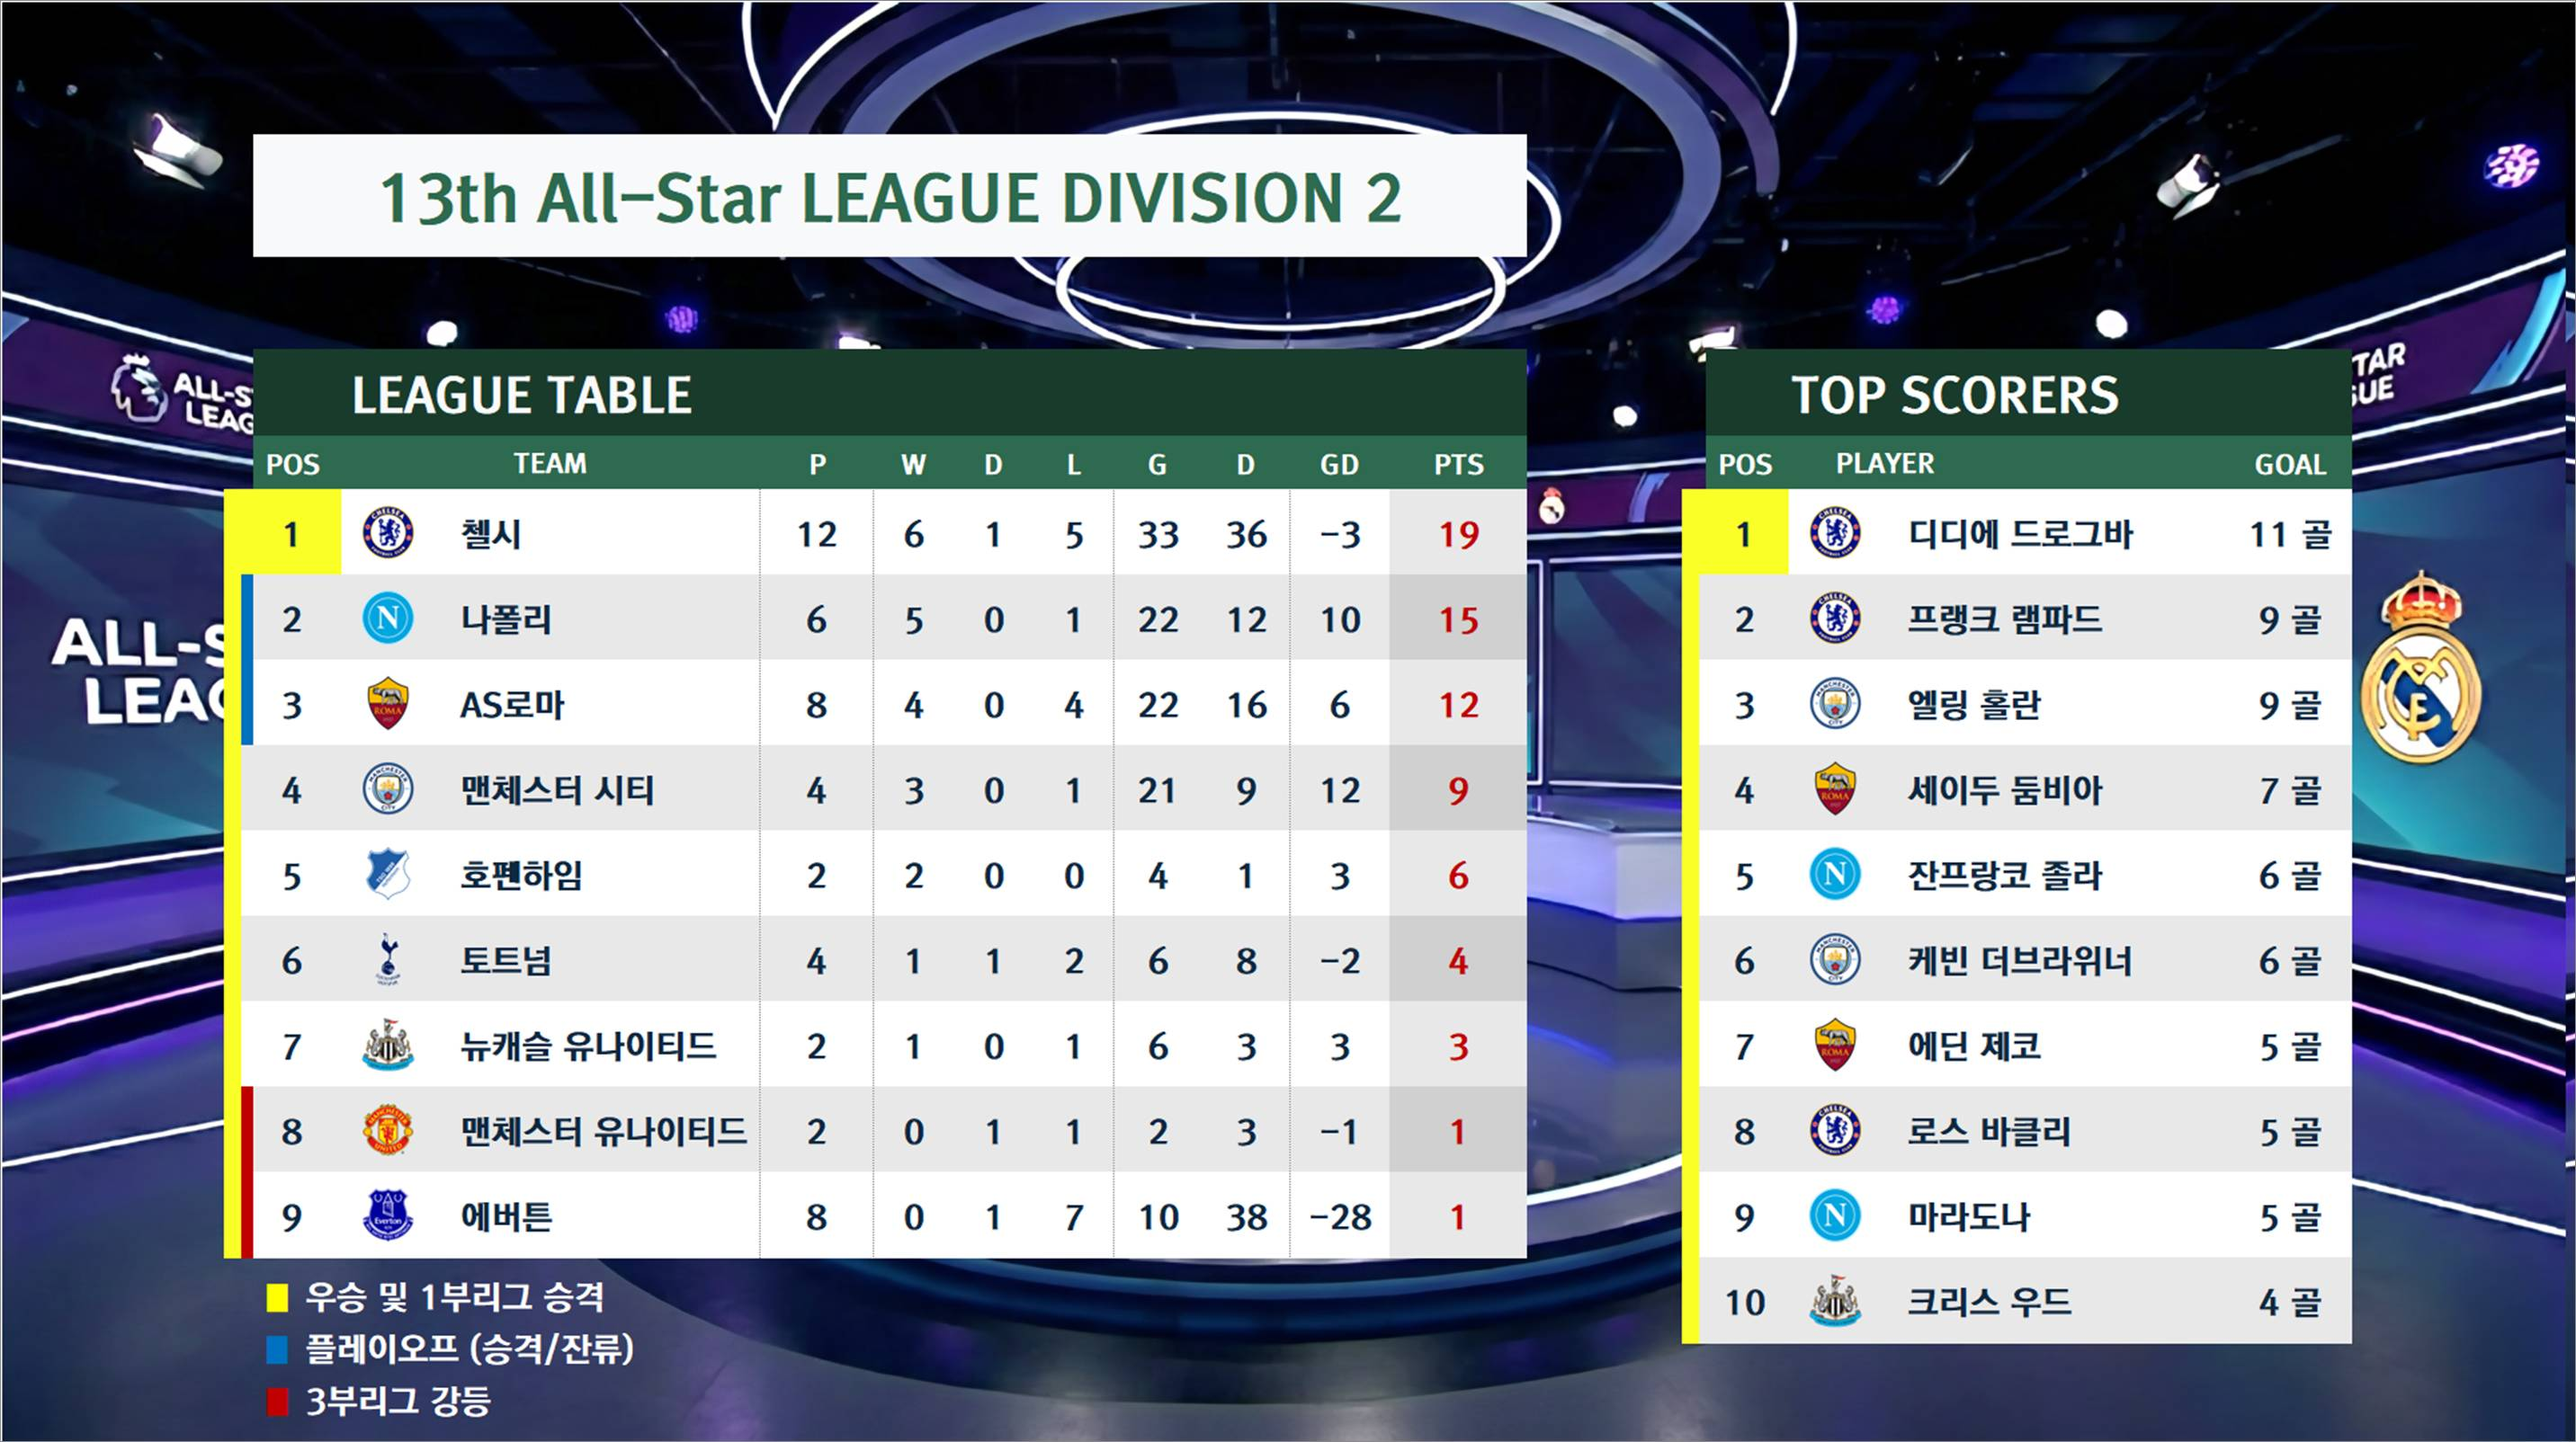
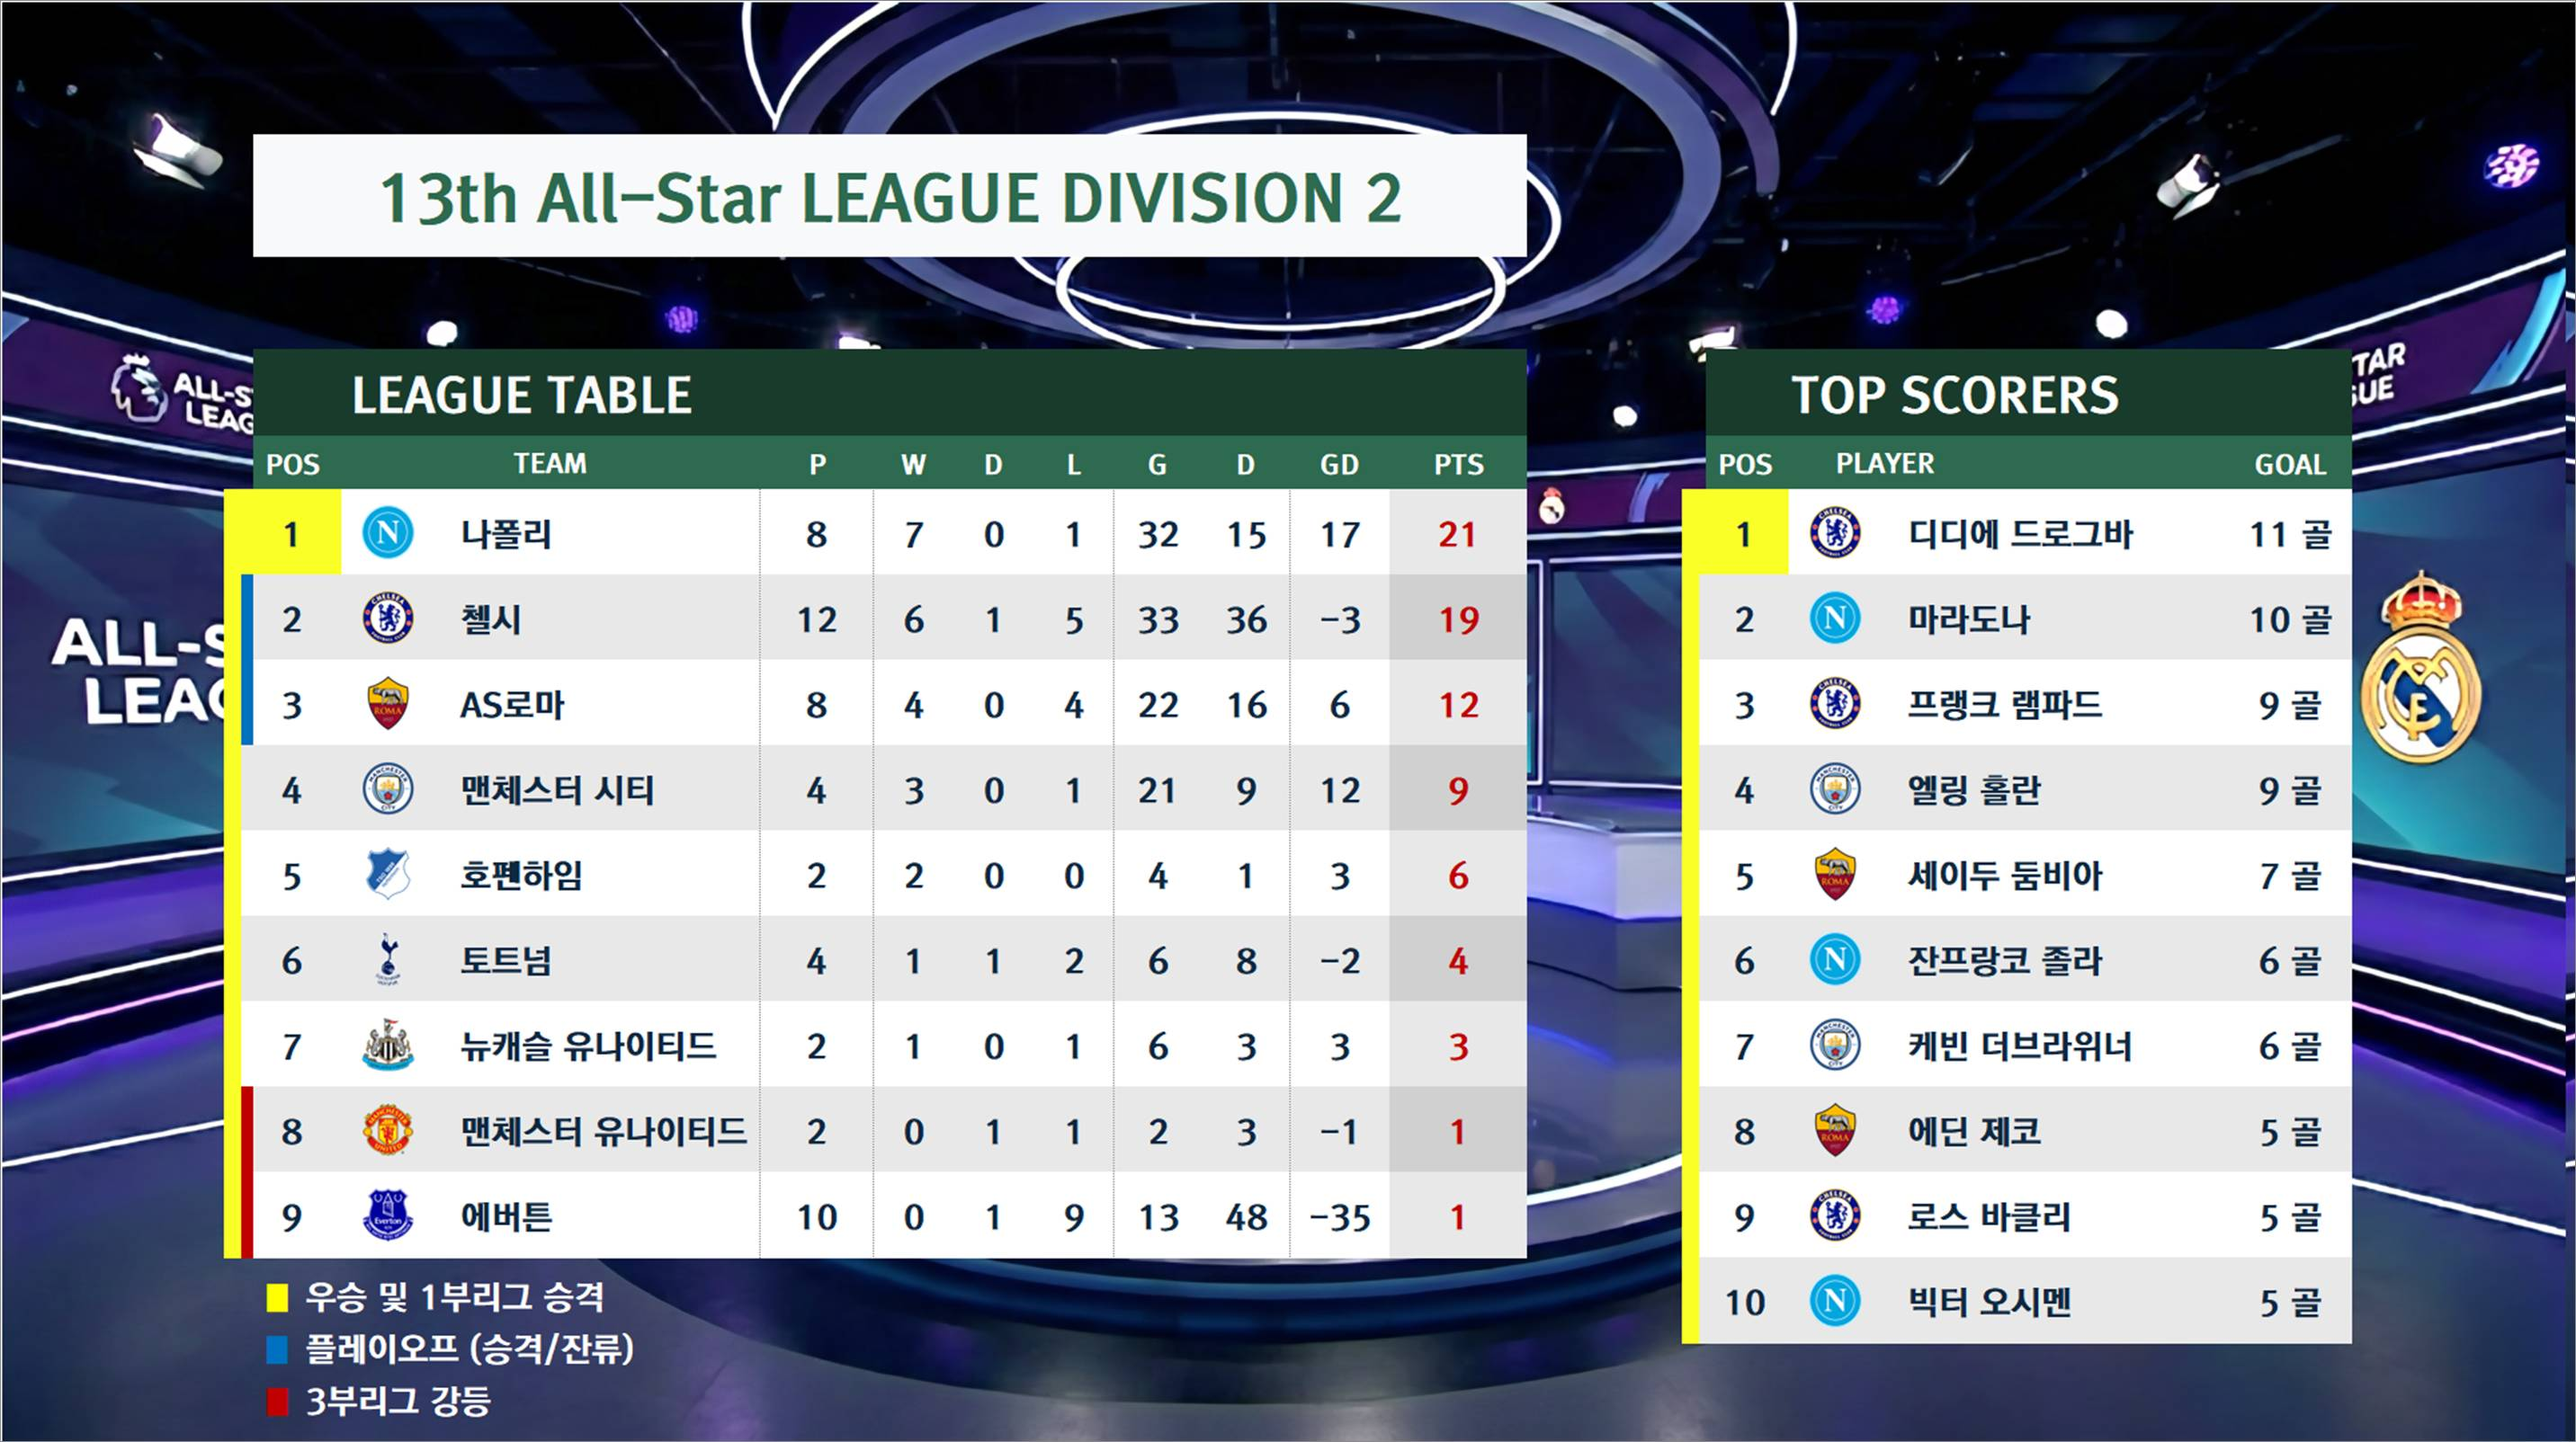
Optimize: 20:23:08

diff --git a/index.html b/index.html
@@ -68,10 +68,10 @@
     
     <div class="container">
         <div class="card"><h2>🥇 1부 리그 순위표</h2><img src="https://i.ibb.co/Lz9Jyx7J/677e42009441.jpg" alt="1부 리그"></div>
-        <div class="card"><h2>🥈 2부 리그 순위표</h2><img src="https://i.ibb.co/zWHzRJgp/28ddc6a1162c.jpg" alt="2부 리그"></div>
-        <div class="card"><h2>🏅 FA컵 토너먼트 대진표</h2><img src="https://i.ibb.co/vnsKZMN/f91d05ce4df0.jpg" alt="FA컵"></div>
+        <div class="card"><h2>🥈 2부 리그 순위표</h2><img src="https://i.ibb.co/N2CFdnmR/93816511ce27.jpg" alt="2부 리그"></div>
+        <div class="card"><h2>🏅 FA컵 토너먼트 대진표</h2><img src="https://i.ibb.co/B5V6YPrs/a4e0ca037547.jpg" alt="FA컵"></div>
         <div class="card"><h2>🌟 UCL 그룹스테이지</h2><img src="https://i.ibb.co/VcvyGNP0/f59808f6e166.jpg" alt="UCL 조별"></div>
-        <div class="card"><h2>👑 GOLDEN BOOT (통합 득점왕)</h2><img src="https://i.ibb.co/DP5khWky/b9a3ff55361b.jpg" alt="득점왕"></div>
+        <div class="card"><h2>👑 GOLDEN BOOT (통합 득점왕)</h2><img src="https://i.ibb.co/h12xc558/679dca3664a3.jpg" alt="득점왕"></div>
         <div class="card"><h2>🏆 UCL 토너먼트 대진표</h2><img src="https://i.ibb.co/p6K0193R/091d269248eb.jpg" alt="UCL 토너"></div>
         <div class="card"><h2>🎖 UEL 토너먼트 대진표</h2><img src="https://i.ibb.co/GBscFqC/c9fe4ffa9dfe.jpg" alt="UEL 토너"></div>
     </div>

diff --git a/올스타리그 경기기록 불러오기/올스타리그경기기록조회.py b/올스타리그 경기기록 불러오기/올스타리그경기기록조회.py
@@ -13,7 +13,7 @@ league_players = [
 ]
 
 # 💡 수정된 부분: 2026년 4월 25일 오전 3시 정각
-TARGET_START_DATETIME = "2026-05-01T01:33:18"
+TARGET_START_DATETIME = "2026-04-21T23:00:00"
 
 def get_ouid(nickname):
     url = f"https://open.api.nexon.com/fconline/v1/id?nickname={nickname}"
